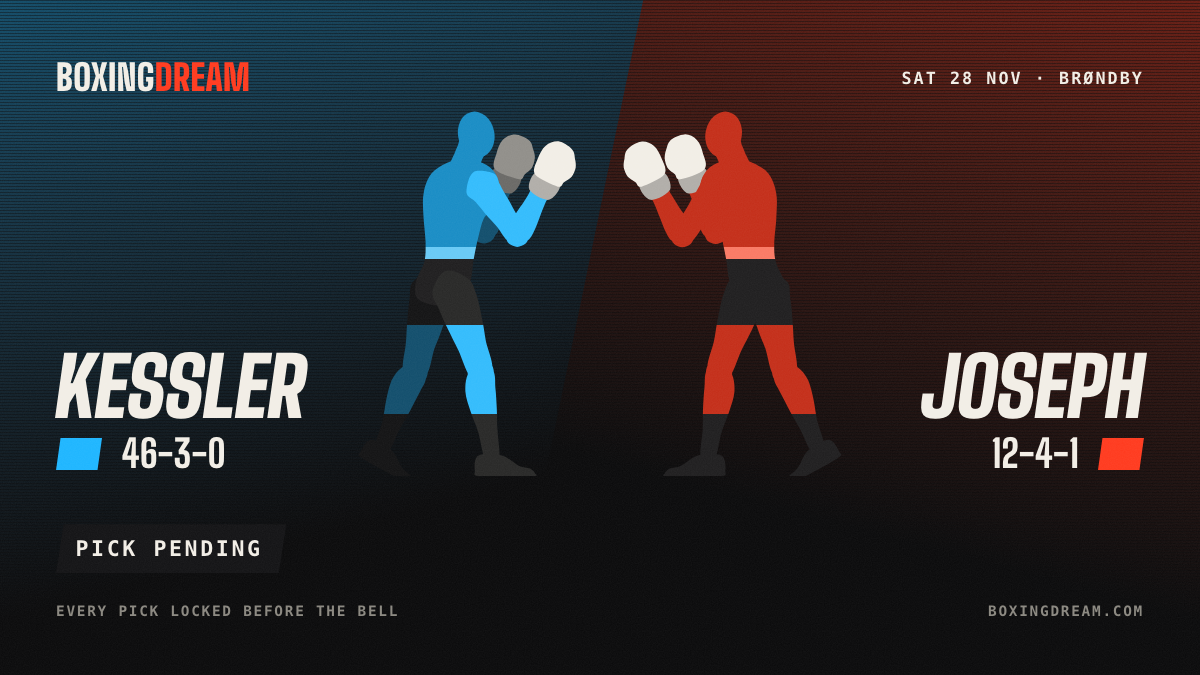
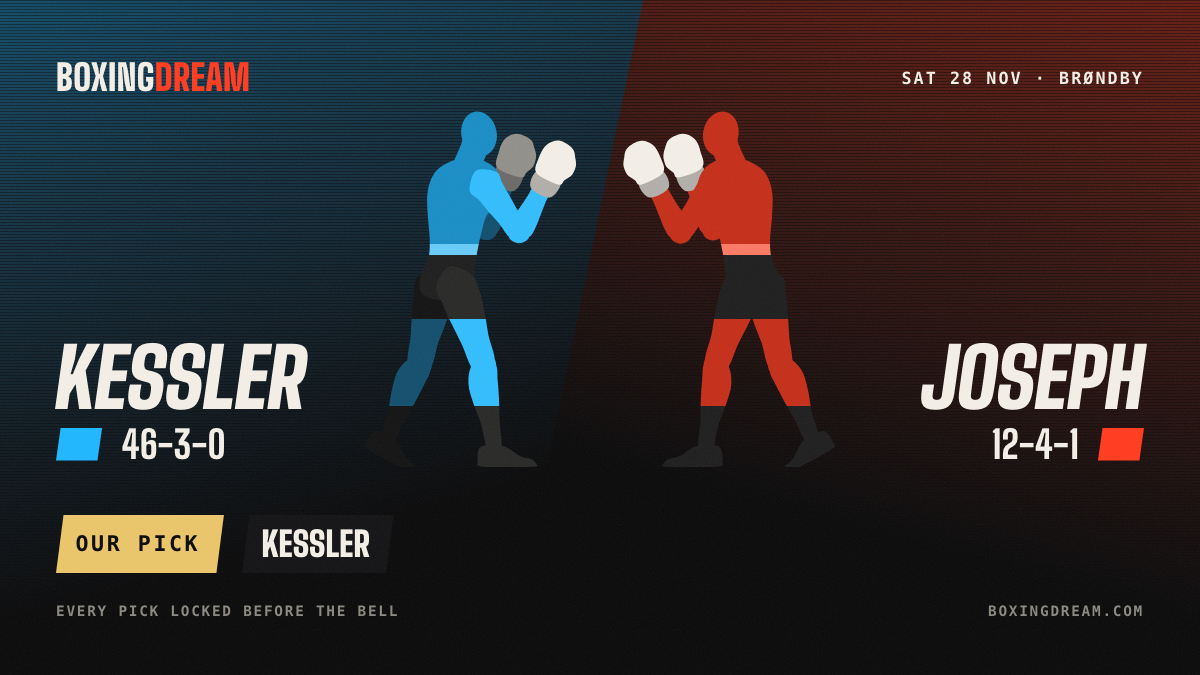
Daily update 2026-11-26: 1 new pick(s) locked

diff --git a/index.html b/index.html
@@ -179,6 +179,7 @@ footer p { margin: 0 0 8px; max-width: 70ch; }
     <p class="next-meta mono">
 <span>Brøndby Hallen, Brøndby, Denmark</span>    </p>
     <div class="next-row">
+      <div class="flag mono"><span class="k">Our pick</span><span class="v">Kessler</span></div>
       <a class="cta mono" href="cards/2026-11-28-kessler-joseph/">See the picks &rarr;</a>
     </div>
   </div>
@@ -190,7 +191,7 @@ footer p { margin: 0 0 8px; max-width: 70ch; }
   <div class="night-card">
     <a class="night-t" href="cards/2026-11-28-kessler-joseph/"><span class="t2">Kessler vs Joseph</span></a>
     <ol class="picklines">
-  <li><a href="cards/2026-11-28-kessler-joseph/#fight-1"><span class="pl-ab">Kessler <span class="v">v</span> Joseph</span><span class="pl-pk">Pending</span></a></li>
+  <li><a href="cards/2026-11-28-kessler-joseph/#fight-1"><span class="pl-ab">Kessler <span class="v">v</span> Joseph</span><span class="pl-pk a">Kessler</span><span class="pl-tg mono">by record</span></a></li>
 </ol>
   </div>
 </section>
@@ -199,7 +200,7 @@ footer p { margin: 0 0 8px; max-width: 70ch; }
   <div class="big">42&ndash;11</div>
   <div>
     <p class="mono" style="color:var(--paper);margin:0">Our record</p>
-    <p>Every pick is locked before the opening bell and graded after the fight. Nothing is edited or deleted, and the full ledger is public. 2 picks awaiting results.</p>
+    <p>Every pick is locked before the opening bell and graded after the fight. Nothing is edited or deleted, and the full ledger is public. 3 picks awaiting results.</p>
   </div>
   <a class="mono" href="record/">See every pick &rarr;</a>
 </section>
@@ -213,7 +214,7 @@ footer p { margin: 0 0 8px; max-width: 70ch; }
   <span class="tile-body">
     <span class="tile-when mono">Sat 28 Nov · Brøndby, Denmark</span>
     <span class="tile-t">Kessler vs Joseph</span>
-    <span class="tile-btn mono">See the picks &rarr;</span>
+<span class="tile-p">Our pick <b>Kessler</b></span>    <span class="tile-btn mono">See the picks &rarr;</span>
   </span>
 </a><a class="tile" href="cards/2026-12-11-fury-joshua/">
   <span class="tile-art" aria-hidden="true"><span class="ta"></span><span class="tb"></span><span class="tile-figs"><svg class="fig fig-a" viewBox="0 0 632.1 1000" preserveAspectRatio="xMidYMax meet" aria-hidden="true"><defs><linearGradient id="tile-2026-12-11-fury-joshua-a-t" gradientUnits="userSpaceOnUse" x1="0" y1="1000" x2="0" y2="-36.3"><stop offset="0.000" stop-color="#201F20"/><stop offset="0.575" stop-color="#201F20"/><stop offset="0.575" stop-color="#69CAF6"/><stop offset="0.605" stop-color="#69CAF6"/><stop offset="0.605" stop-color="#1A8DC5"/><stop offset="1.000" stop-color="#1A8DC5"/></linearGradient><linearGradient id="tile-2026-12-11-fury-joshua-a-far" gradientUnits="userSpaceOnUse" x1="0" y1="1000" x2="0" y2="-36.3"><stop offset="0.000" stop-color="#141415"/><stop offset="0.165" stop-color="#141415"/><stop offset="0.165" stop-color="#134F6D"/><stop offset="0.400" stop-color="#134F6D"/><stop offset="0.400" stop-color="#141415"/><stop offset="1.000" stop-color="#141415"/></linearGradient><linearGradient id="tile-2026-12-11-fury-joshua-a-near" gradientUnits="userSpaceOnUse" x1="0" y1="1000" x2="0" y2="-36.3"><stop offset="0.000" stop-color="#292928"/><stop offset="0.165" stop-color="#292928"/><stop offset="0.165" stop-color="#34BCFC"/><stop offset="0.400" stop-color="#34BCFC"/><stop offset="0.400" stop-color="#292928"/><stop offset="1.000" stop-color="#292928"/></linearGradient></defs><path d="M220 436C237 439 257 470 263 487C270 503 264 518 260 535C257 553 249 575 242 594C236 613 228 630 220 651C213 673 209 707 199 722C189 737 171 744 161 742C150 740 137 726 134 709C131 691 140 658 142 636C144 614 144 595 146 575C147 555 150 532 152 514C155 496 150 480 162 467C173 454 203 433 220 436ZM177 690C187 694 197 715 197 728C198 742 187 755 180 770C172 785 163 803 154 820C145 837 136 851 126 869C116 888 105 919 96 930C87 941 78 939 72 937C65 934 58 929 59 914C60 900 73 870 78 849C83 829 84 811 88 792C92 773 96 753 103 737C111 722 121 709 133 701C146 693 166 685 177 690ZM191 741C185 747 174 751 166 751C157 751 146 747 140 741C134 735 130 724 130 715C130 706 134 695 140 689C146 683 157 679 166 679C174 679 185 683 191 689C197 695 202 706 202 715C202 724 197 735 191 741ZM26 953C4 939 15 942 18 933C22 924 33 901 47 900C62 900 90 918 104 930C118 943 123 965 131 976C140 988 150 992 155 998C160 1005 162 1012 161 1016C160 1019 171 1029 149 1019C126 1008 48 968 26 953Z" fill="url(#tile-2026-12-11-fury-joshua-a-far)"/><path d="M220 170C232 160 264 163 277 168C290 173 290 187 297 199C305 210 315 224 323 236C332 248 339 260 349 273C359 287 377 304 382 317C386 330 382 347 374 353C367 360 350 361 337 354C325 348 312 326 300 315C288 303 278 294 267 283C256 273 244 261 235 251C225 242 210 240 207 227C205 213 208 179 220 170ZM331 324C329 313 336 304 341 293C346 281 354 268 360 256C367 244 372 233 379 219C385 205 390 182 398 173C407 164 421 161 429 164C436 167 444 179 444 192C444 204 432 224 428 239C423 253 420 265 416 278C412 292 409 307 404 318C400 330 397 341 388 347C379 354 360 363 350 359C340 355 332 335 331 324ZM382 358C377 364 367 368 359 368C352 368 342 364 337 358C331 353 327 343 327 336C327 328 331 318 337 313C342 308 352 303 359 303C367 303 377 308 382 313C387 318 392 328 392 336C392 343 387 353 382 358Z" fill="#134F6D"/><path d="M381 202C374 190 383 157 397 152C410 148 456 165 463 177C470 189 451 221 438 225C424 229 388 214 381 202Z" fill="#6B6A67"/><path d="M392 160C382 148 392 130 396 116C399 103 404 87 413 79C422 70 435 63 447 63C459 64 477 73 485 80C493 87 494 97 497 106C500 114 501 121 501 130C500 138 497 148 493 155C488 163 479 167 473 172C468 177 471 188 458 186C444 184 403 171 392 160Z" fill="#918F8A"/><path d="M174 513C164 502 167 483 170 466C174 449 188 430 193 411C197 393 196 379 196 358C195 336 191 307 190 285C189 263 187 242 191 223C194 204 202 184 212 171C223 158 239 149 254 142C268 135 287 132 301 132C316 131 329 133 342 138C355 143 372 151 381 163C391 175 399 194 399 210C400 226 391 245 384 259C377 273 363 281 355 295C348 310 345 328 340 347C335 366 331 389 327 409C324 430 324 453 317 472C311 490 303 508 289 518C274 528 249 532 230 532C211 531 184 524 174 513ZM255 161C253 150 260 149 263 142C267 135 270 126 274 119C277 111 280 104 284 95C288 87 287 74 297 67C307 61 332 50 344 55C356 60 365 87 367 98C368 110 358 118 354 126C350 135 347 142 344 150C340 158 337 166 333 173C330 180 334 187 325 192C316 197 289 209 278 204C266 199 257 171 255 161Z" fill="url(#tile-2026-12-11-fury-joshua-a-t)"/><ellipse cx="334.7" cy="64.2" rx="49.7" ry="63.2" transform="rotate(-12 334.7 64.2)" fill="#1A8DC5"/><path d="M251 438C267 432 299 448 313 460C327 471 329 487 336 505C342 523 346 546 350 567C355 588 357 607 361 630C366 653 380 685 379 704C379 722 367 737 356 741C346 744 328 740 317 726C305 711 296 677 286 656C276 635 267 618 258 599C248 580 239 559 232 541C225 524 212 511 215 494C218 476 234 443 251 438ZM344 688C355 686 374 699 381 711C388 722 386 740 387 757C389 775 390 796 391 816C392 836 391 853 393 875C394 897 400 931 398 946C396 960 387 963 380 964C374 965 364 965 358 951C351 937 347 903 341 882C335 861 326 844 320 825C314 806 306 786 305 768C304 750 306 733 312 720C319 706 332 689 344 688ZM373 741C367 747 356 751 347 751C339 751 328 747 322 741C315 735 311 724 311 715C311 706 315 695 322 689C328 683 339 679 347 679C356 679 367 683 373 689C379 695 383 706 383 715C383 724 379 735 373 741ZM347 1000C321 998 332 995 331 985C330 976 328 950 341 943C353 936 387 938 405 943C423 948 438 965 451 971C464 977 474 976 482 979C489 983 495 988 495 992C496 995 511 999 486 1000C461 1001 373 1002 347 1000Z" fill="url(#tile-2026-12-11-fury-joshua-a-near)"/><path d="M326 168C339 159 371 165 383 171C396 177 394 191 401 203C407 215 416 230 423 243C431 256 437 268 446 282C454 297 471 315 474 329C477 342 472 359 464 364C456 370 439 369 427 362C415 354 404 332 393 319C382 306 373 297 363 285C353 274 343 261 333 250C324 240 310 237 308 224C307 210 314 176 326 168ZM423 331C423 320 431 311 437 301C443 290 452 278 460 266C467 254 474 244 482 231C490 218 497 196 506 188C515 180 530 178 537 182C545 186 551 199 550 211C549 223 535 242 529 256C522 270 518 281 513 294C508 307 503 322 497 333C491 344 488 354 478 360C468 366 448 372 439 367C430 362 423 342 423 331ZM473 368C468 373 458 377 451 377C443 377 433 373 428 368C422 363 418 353 418 345C418 338 422 328 428 323C433 317 443 313 451 313C458 313 468 317 473 323C479 328 483 338 483 345C483 353 479 363 473 368Z" fill="#34BCFC"/><path d="M486 215C480 202 493 170 507 167C521 164 564 185 570 198C575 211 554 241 540 243C526 246 491 227 486 215Z" fill="#B1AEA9"/><path d="M502 174C493 161 505 144 509 131C514 118 521 103 531 95C540 87 554 82 566 84C578 85 595 96 602 104C610 112 610 123 611 131C613 140 614 147 613 155C611 163 607 173 602 180C596 187 587 190 581 195C575 199 577 210 564 207C551 203 511 186 502 174Z" fill="#F2EEE6"/></svg><svg class="fig fig-b" viewBox="0 0 632.1 1000" preserveAspectRatio="xMidYMax meet" aria-hidden="true"><defs><linearGradient id="tile-2026-12-11-fury-joshua-b-t" gradientUnits="userSpaceOnUse" x1="0" y1="1000" x2="0" y2="4"><stop offset="0.000" stop-color="#201F20"/><stop offset="0.575" stop-color="#201F20"/><stop offset="0.575" stop-color="#FA7A65"/><stop offset="0.605" stop-color="#FA7A65"/><stop offset="0.605" stop-color="#C42F1A"/><stop offset="1.000" stop-color="#C42F1A"/></linearGradient><linearGradient id="tile-2026-12-11-fury-joshua-b-far" gradientUnits="userSpaceOnUse" x1="0" y1="1000" x2="0" y2="4"><stop offset="0.000" stop-color="#141415"/><stop offset="0.165" stop-color="#141415"/><stop offset="0.165" stop-color="#6D1E14"/><stop offset="0.400" stop-color="#6D1E14"/><stop offset="0.400" stop-color="#141415"/><stop offset="1.000" stop-color="#141415"/></linearGradient><linearGradient id="tile-2026-12-11-fury-joshua-b-near" gradientUnits="userSpaceOnUse" x1="0" y1="1000" x2="0" y2="4"><stop offset="0.000" stop-color="#292928"/><stop offset="0.165" stop-color="#292928"/><stop offset="0.165" stop-color="#FE4D33"/><stop offset="0.400" stop-color="#FE4D33"/><stop offset="0.400" stop-color="#292928"/><stop offset="1.000" stop-color="#292928"/></linearGradient></defs><path d="M416 513C419 530 407 542 400 559C393 576 384 596 375 615C366 633 357 649 348 669C338 690 329 723 318 736C307 750 290 754 280 751C270 747 259 733 258 715C257 698 271 666 275 644C280 622 282 604 286 584C290 564 294 542 300 525C306 507 308 491 322 481C335 470 366 454 382 459C397 465 413 497 416 513ZM323 731C329 743 331 760 329 777C328 794 321 814 315 832C309 850 301 866 295 887C289 907 285 940 279 953C273 966 264 966 257 965C251 964 242 962 240 948C238 933 244 901 245 880C246 859 246 842 247 823C248 804 249 783 250 767C252 750 249 733 256 722C263 711 281 699 292 700C303 701 316 718 323 731ZM254 726C254 718 259 707 264 701C270 696 281 691 289 691C297 691 308 696 314 701C319 707 324 718 324 726C324 734 319 745 314 751C308 757 297 761 289 761C281 761 270 757 264 751C259 745 254 734 254 726ZM156 1000C132 999 146 995 147 992C147 989 152 983 160 980C167 977 177 978 189 972C202 966 216 950 233 945C251 941 283 938 295 945C307 952 306 977 305 986C304 995 314 998 289 1000C264 1002 179 1001 156 1000Z" fill="url(#tile-2026-12-11-fury-joshua-b-far)"/><path d="M326 254C325 267 311 270 302 280C293 289 283 302 274 313C264 324 255 333 245 346C235 358 224 380 212 387C201 394 184 395 177 389C169 384 164 368 167 355C170 342 186 324 194 310C202 297 209 285 216 272C223 260 231 246 238 234C244 223 242 209 254 204C266 198 297 192 309 200C321 208 327 241 326 254ZM201 392C192 397 172 391 163 385C154 379 150 369 145 359C139 348 135 334 129 322C124 309 120 298 114 285C108 271 95 254 94 242C92 230 99 217 106 214C113 210 127 211 136 219C145 227 152 248 159 261C167 274 173 284 181 295C188 306 197 318 203 328C209 338 216 346 216 357C216 368 209 387 201 392ZM159 371C159 364 162 354 168 349C173 344 182 340 189 340C197 340 206 344 211 349C216 354 220 364 220 371C220 378 216 388 211 393C206 398 197 402 189 402C182 402 173 398 168 393C162 388 159 378 159 371Z" fill="#6D1E14"/><path d="M103 273C90 270 69 242 75 229C80 217 122 197 135 199C149 202 161 233 155 245C150 257 117 275 103 273Z" fill="#6B6A67"/><path d="M80 238C68 241 70 230 64 226C58 222 49 218 44 212C39 205 35 196 34 188C32 180 33 173 35 165C36 157 36 146 43 139C51 131 67 121 78 119C90 118 103 123 112 130C121 138 128 152 133 165C137 177 149 194 140 206C131 218 93 234 80 238Z" fill="#918F8A"/><path d="M401 550C383 551 359 546 345 537C331 527 324 509 318 492C312 475 312 452 308 432C304 412 300 391 296 373C291 354 288 337 281 323C274 309 261 301 254 288C247 274 239 256 239 241C239 226 247 207 256 195C265 184 281 176 294 171C307 166 319 165 333 165C347 166 365 169 379 175C393 182 408 190 418 203C429 216 436 235 439 253C443 271 441 291 440 313C440 334 435 362 434 382C434 403 434 417 438 434C442 452 456 471 459 487C462 503 465 521 455 532C446 542 420 549 401 550ZM356 235C345 240 319 228 310 223C301 218 305 212 302 205C299 198 295 190 292 183C289 175 286 169 282 160C279 152 269 145 270 133C272 122 281 97 292 92C303 87 328 97 338 104C347 110 346 122 350 130C353 139 356 145 360 153C363 160 367 169 369 175C372 182 380 183 377 193C375 203 367 230 356 235Z" fill="url(#tile-2026-12-11-fury-joshua-b-t)"/><ellipse cx="301" cy="100.6" rx="47.8" ry="60.8" transform="rotate(12 301 100.6)" fill="#C42F1A"/><path d="M467 487C478 500 474 516 476 533C479 551 481 572 483 591C484 611 484 629 486 650C488 672 497 703 494 720C491 737 479 750 468 752C458 754 441 747 431 732C421 718 418 685 411 665C404 645 396 628 390 610C383 591 376 571 373 554C369 536 363 523 370 507C376 491 395 461 411 458C427 455 456 475 467 487ZM494 713C506 720 516 733 523 748C531 762 534 782 538 800C542 818 543 835 547 855C552 875 565 903 566 918C567 932 560 937 554 939C548 942 539 943 531 933C522 922 511 892 501 874C492 857 483 843 475 827C466 811 457 793 450 779C443 764 433 752 433 739C434 726 443 706 453 702C463 698 483 705 494 713ZM428 726C428 718 433 707 439 701C444 696 455 691 463 691C472 691 482 696 488 701C494 707 498 718 498 726C498 734 494 745 488 751C482 757 472 761 463 761C455 761 444 757 439 751C433 745 428 734 428 726ZM480 1018C458 1028 469 1018 468 1015C467 1012 469 1005 474 998C479 992 489 988 497 977C505 966 509 945 523 933C536 921 564 904 577 904C591 904 602 927 605 935C609 944 619 941 598 955C577 969 501 1008 480 1018Z" fill="url(#tile-2026-12-11-fury-joshua-b-near)"/><path d="M423 257C421 270 407 271 397 280C388 289 377 301 366 311C356 321 346 330 334 341C323 353 310 373 298 380C286 386 270 385 263 379C256 373 252 357 256 344C260 331 278 315 287 302C296 289 304 278 312 266C320 254 330 241 337 230C344 219 344 205 356 201C369 196 400 192 411 202C422 211 426 244 423 257ZM286 384C277 388 258 379 249 373C241 366 238 356 234 345C229 334 226 319 222 307C219 294 216 282 211 268C207 254 195 235 195 223C195 211 203 199 210 197C218 194 232 197 240 205C248 214 252 236 258 249C264 262 270 273 276 285C282 297 290 309 295 320C299 331 306 340 305 350C303 361 295 380 286 384ZM246 362C246 354 250 345 255 340C260 335 270 331 277 331C284 331 294 335 299 340C304 345 308 354 308 362C308 369 304 378 299 384C294 389 284 393 277 393C270 393 260 389 255 384C250 378 246 369 246 362Z" fill="#FE4D33"/><path d="M202 255C189 251 171 220 178 209C184 197 228 181 241 185C254 189 263 221 256 233C250 245 215 259 202 255Z" fill="#B1AEA9"/><path d="M182 218C169 220 173 209 167 204C162 200 153 195 149 188C145 181 142 171 141 163C140 156 142 149 145 141C147 133 148 122 156 116C164 109 181 100 193 100C204 99 217 106 225 114C234 123 239 138 242 151C245 164 255 181 245 192C235 204 195 216 182 218Z" fill="#F2EEE6"/></svg></span></span>

diff --git a/cards/2026-11-28-kessler-joseph/index.html b/cards/2026-11-28-kessler-joseph/index.html
@@ -347,7 +347,7 @@ main.wrap { padding-top: 24px; }
   <h1 class="sr">Kessler vs Joseph prediction</h1>
   <div class="plates">
     <div class="plate a">
-      <div class="ptag mono"><span class="swatch a"></span><span>Denmark</span><span class="given">Mikkel</span></div>
+<div class="pickflag mono">Our pick</div>      <div class="ptag mono"><span class="swatch a"></span><span>Denmark</span><span class="given">Mikkel</span></div>
       <p class="hero-surname "><span class="lean">Kessler</span></p>
       <div class="hero-rec"><span class="hero-wld">46-3-0</span></div>
     </div>
@@ -362,7 +362,7 @@ main.wrap { padding-top: 24px; }
 
 <nav class="scorebug" aria-label="Mikkel Kessler vs Bernard Joseph">
   <div class="sb-side a"><span class="sb-flag a"><span class="lean">Kessler</span></span><span class="sb-rec">46-3-0</span></div>
-  <div class="sb-mid mono">Super Middleweight · 10 RDS</div>
+  <div class="sb-mid mono"><span class="swatch gold"></span>Our pick&nbsp;<span class="pk">Kessler</span></div>
   <div class="sb-side b"><span class="sb-rec">12-4-1</span><span class="sb-flag b"><span class="lean">Joseph</span></span></div>
 </nav>
 
@@ -394,14 +394,13 @@ main.wrap { padding-top: 24px; }
 <div class="nat">United States</div>    </div>
   </div>
 
-  <div class="call pending">
+  <div class="call a">
     <span class="call-k mono">Our pick</span>
-    <span class="call-v">Pending</span>
-    <span class="call-t mono">Finding fight records · locks two days out at the latest</span>
-<div class="call-o mono">
+    <span class="call-v"><span class="lean">Kessler</span><span class="conf"> · by record</span></span>
+<span class="call-t mono">Locked <time datetime="2026-11-26T01:07:08Z" title="26 Nov 2026, 01:07 UTC">26 Nov</time></span><p class="call-n">By record: no verified fight history</p><div class="call-o mono">
   <span class="k">Bookies</span>
-  <span class="w">favor Kessler</span>
-  <span class="t">Kessler −476 · Joseph +325 · median of 3 bookmakers via The Odds API, 25 Nov</span>
+  <span class="w">agree: Kessler is the favorite</span>
+  <span class="t">Kessler −476 · Joseph +325 · median of 3 bookmakers via The Odds API, 26 Nov</span>
 </div>  </div>
 
   <details class="numbers">
@@ -638,7 +637,7 @@ main.wrap { padding-top: 24px; }
 
 <footer>
   <p><strong>How to read it.</strong> Bars show size, not who is better: each is drawn against 100% for rates, or against the larger of the two fighters for counts. Form: a solid pip is a win, an outlined pip is a loss, grey is a draw, and a red bar under a win means it ended inside the distance. A dash means the sample is too small to show or the record is incomplete, and the reason is printed under it. World title fights count the four major bodies: WBA, WBC, IBF and WBO.</p>
-  <p>Every figure is calculated from public fight records as they stood on the fight date. Figures last changed 21 November 2026. The records are re-checked every day until the fight. Sources: Wikipedia (CC BY-SA 4.0), Wikidata. Wikipedia text is licensed CC BY-SA 4.0.</p>
+  <p>Every figure is calculated from public fight records as they stood on the fight date. Figures last changed 26 November 2026. The records are re-checked every day until the fight. Sources: Wikipedia (CC BY-SA 4.0), Wikidata. Wikipedia text is licensed CC BY-SA 4.0.</p>
 </footer>
 </main>
 <div class="legal">

diff --git a/record/index.html b/record/index.html
@@ -344,8 +344,11 @@ details.fine p { margin: 12px 0 0; max-width: 40em; }
   <span class="sub">Our pick <b>Osleys Iglesias</b> · 8 October 2026<br>Osleys Iglesias by TKO, round 7<span class="fixed" title="This result line was corrected after it was published; the card page says what changed">corrected</span></span>
 <span class="g hit">Called it</span></li></ul>
   <h2>Awaiting results</h2>
-  <p class="mono">2 picks locked, fights still to come or results still to confirm</p>
+  <p class="mono">3 picks locked, fights still to come or results still to confirm</p>
   <ul class="rows"><li>
+  <span class="f"><a href="../cards/2026-11-28-kessler-joseph/">Mikkel Kessler vs Bernard Joseph</a></span>
+  <span class="sub">Our pick <b>Mikkel Kessler</b><span class="tag">by record</span> · 28 November 2026</span>
+<span class="g wait">Locked 26 Nov</span></li><li>
   <span class="f"><a href="../cards/2026-12-11-fury-joshua/">Tyson Fury vs Anthony Joshua</a></span>
   <span class="sub">Our pick <b>Tyson Fury</b> · 11 December 2026</span>
 <span class="g wait">Locked 19 Oct</span></li><li>
@@ -354,7 +357,7 @@ details.fine p { margin: 12px 0 0; max-width: 40em; }
 <span class="g wait">Locked 20 Nov</span></li></ul>
   <details class="fine">
     <summary class="mono">How the count works</summary>
-    <p>42 called, 11 missed (by record picks: 6 called, 3 missed; billed first picks: 13 called, 1 missed; narrow picks: 1 called, 0 missed), 1 push, 14 void (bout didn't take place), 2 awaiting results. Voids and pushes count neither way. A result needs two independent sources before it's graded.</p>
+    <p>42 called, 11 missed (by record picks: 6 called, 3 missed; billed first picks: 13 called, 1 missed; narrow picks: 1 called, 0 missed), 1 push, 14 void (bout didn't take place), 3 awaiting results. Voids and pushes count neither way. A result needs two independent sources before it's graded.</p>
   </details>
 </main>
 <div class="legal">

diff --git a/cards/2026-12-24-paul-doumbe/index.html b/cards/2026-12-24-paul-doumbe/index.html
@@ -410,7 +410,7 @@ main.wrap { padding-top: 24px; }
 <div class="call-o mono">
   <span class="k">Bookies</span>
   <span class="w">favor Paul</span>
-  <span class="t">Paul −250 · Doumbé +200 · median of 11 bookmakers via The Odds API, 25 Nov</span>
+  <span class="t">Paul −250 · Doumbé +200 · median of 11 bookmakers via The Odds API, 26 Nov</span>
 </div>  </div>
 
   <details class="numbers">
@@ -677,7 +677,7 @@ main.wrap { padding-top: 24px; }
 <span class="call-t mono">Locked <time datetime="2026-11-20T17:07:28Z" title="20 Nov 2026, 17:07 UTC">20 Nov</time></span><ul class="why"><li class="pro">Cameron has beaten better fighters</li><li class="pro">Cameron hits harder: 8 of 23 wins by knockout, Mayer 5 of 22</li></ul><p class="call-n">Strong: a big edge. In testing, picks like this were right about 9 times in 10.</p><div class="call-o mono">
   <span class="k">Bookies</span>
   <span class="w">agree: Cameron is the favorite</span>
-  <span class="t">Cameron −235 · Mayer +167 · median of 8 bookmakers via The Odds API, 25 Nov</span>
+  <span class="t">Cameron −235 · Mayer +167 · median of 8 bookmakers via The Odds API, 26 Nov</span>
 </div>  </div>
 
   <details class="numbers">

diff --git a/boxing-this-weekend/index.html b/boxing-this-weekend/index.html
@@ -138,7 +138,7 @@ footer p { margin: 0 0 8px; max-width: 70ch; }
     <ul class="facts">
 <li>Where: Brøndby Hallen, Brøndby, Denmark</li>    </ul>
     <ol class="bouts">
-      <li><span class="ab">Mikkel Kessler <small>46-3-0</small> vs Bernard Joseph <small>12-4-1</small></span><span class="pk">Pending</span></li>
+      <li><span class="ab">Mikkel Kessler <small>46-3-0</small> vs Bernard Joseph <small>12-4-1</small></span><span class="pk a">Kessler</span><span class="tg mono">by record</span></li>
     </ol>
     <a class="cta mono" href="../cards/2026-11-28-kessler-joseph/">Full card and the numbers &rarr;</a>
   </section>

diff --git a/cards/2026-12-11-fury-joshua/index.html b/cards/2026-12-11-fury-joshua/index.html
@@ -414,7 +414,7 @@ main.wrap { padding-top: 24px; }
 <span class="call-t mono">Locked <time datetime="2026-10-19T03:07:28Z" title="19 Oct 2026, 03:07 UTC">19 Oct</time></span><div class="call-o mono">
   <span class="k">Bookies</span>
   <span class="w">agree: Fury is the favorite</span>
-  <span class="t">Fury −182 · Joshua +150 · median of 15 bookmakers via The Odds API, 25 Nov</span>
+  <span class="t">Fury −180 · Joshua +150 · median of 14 bookmakers via The Odds API, 26 Nov</span>
 </div>  </div>
 
   <details class="numbers">
